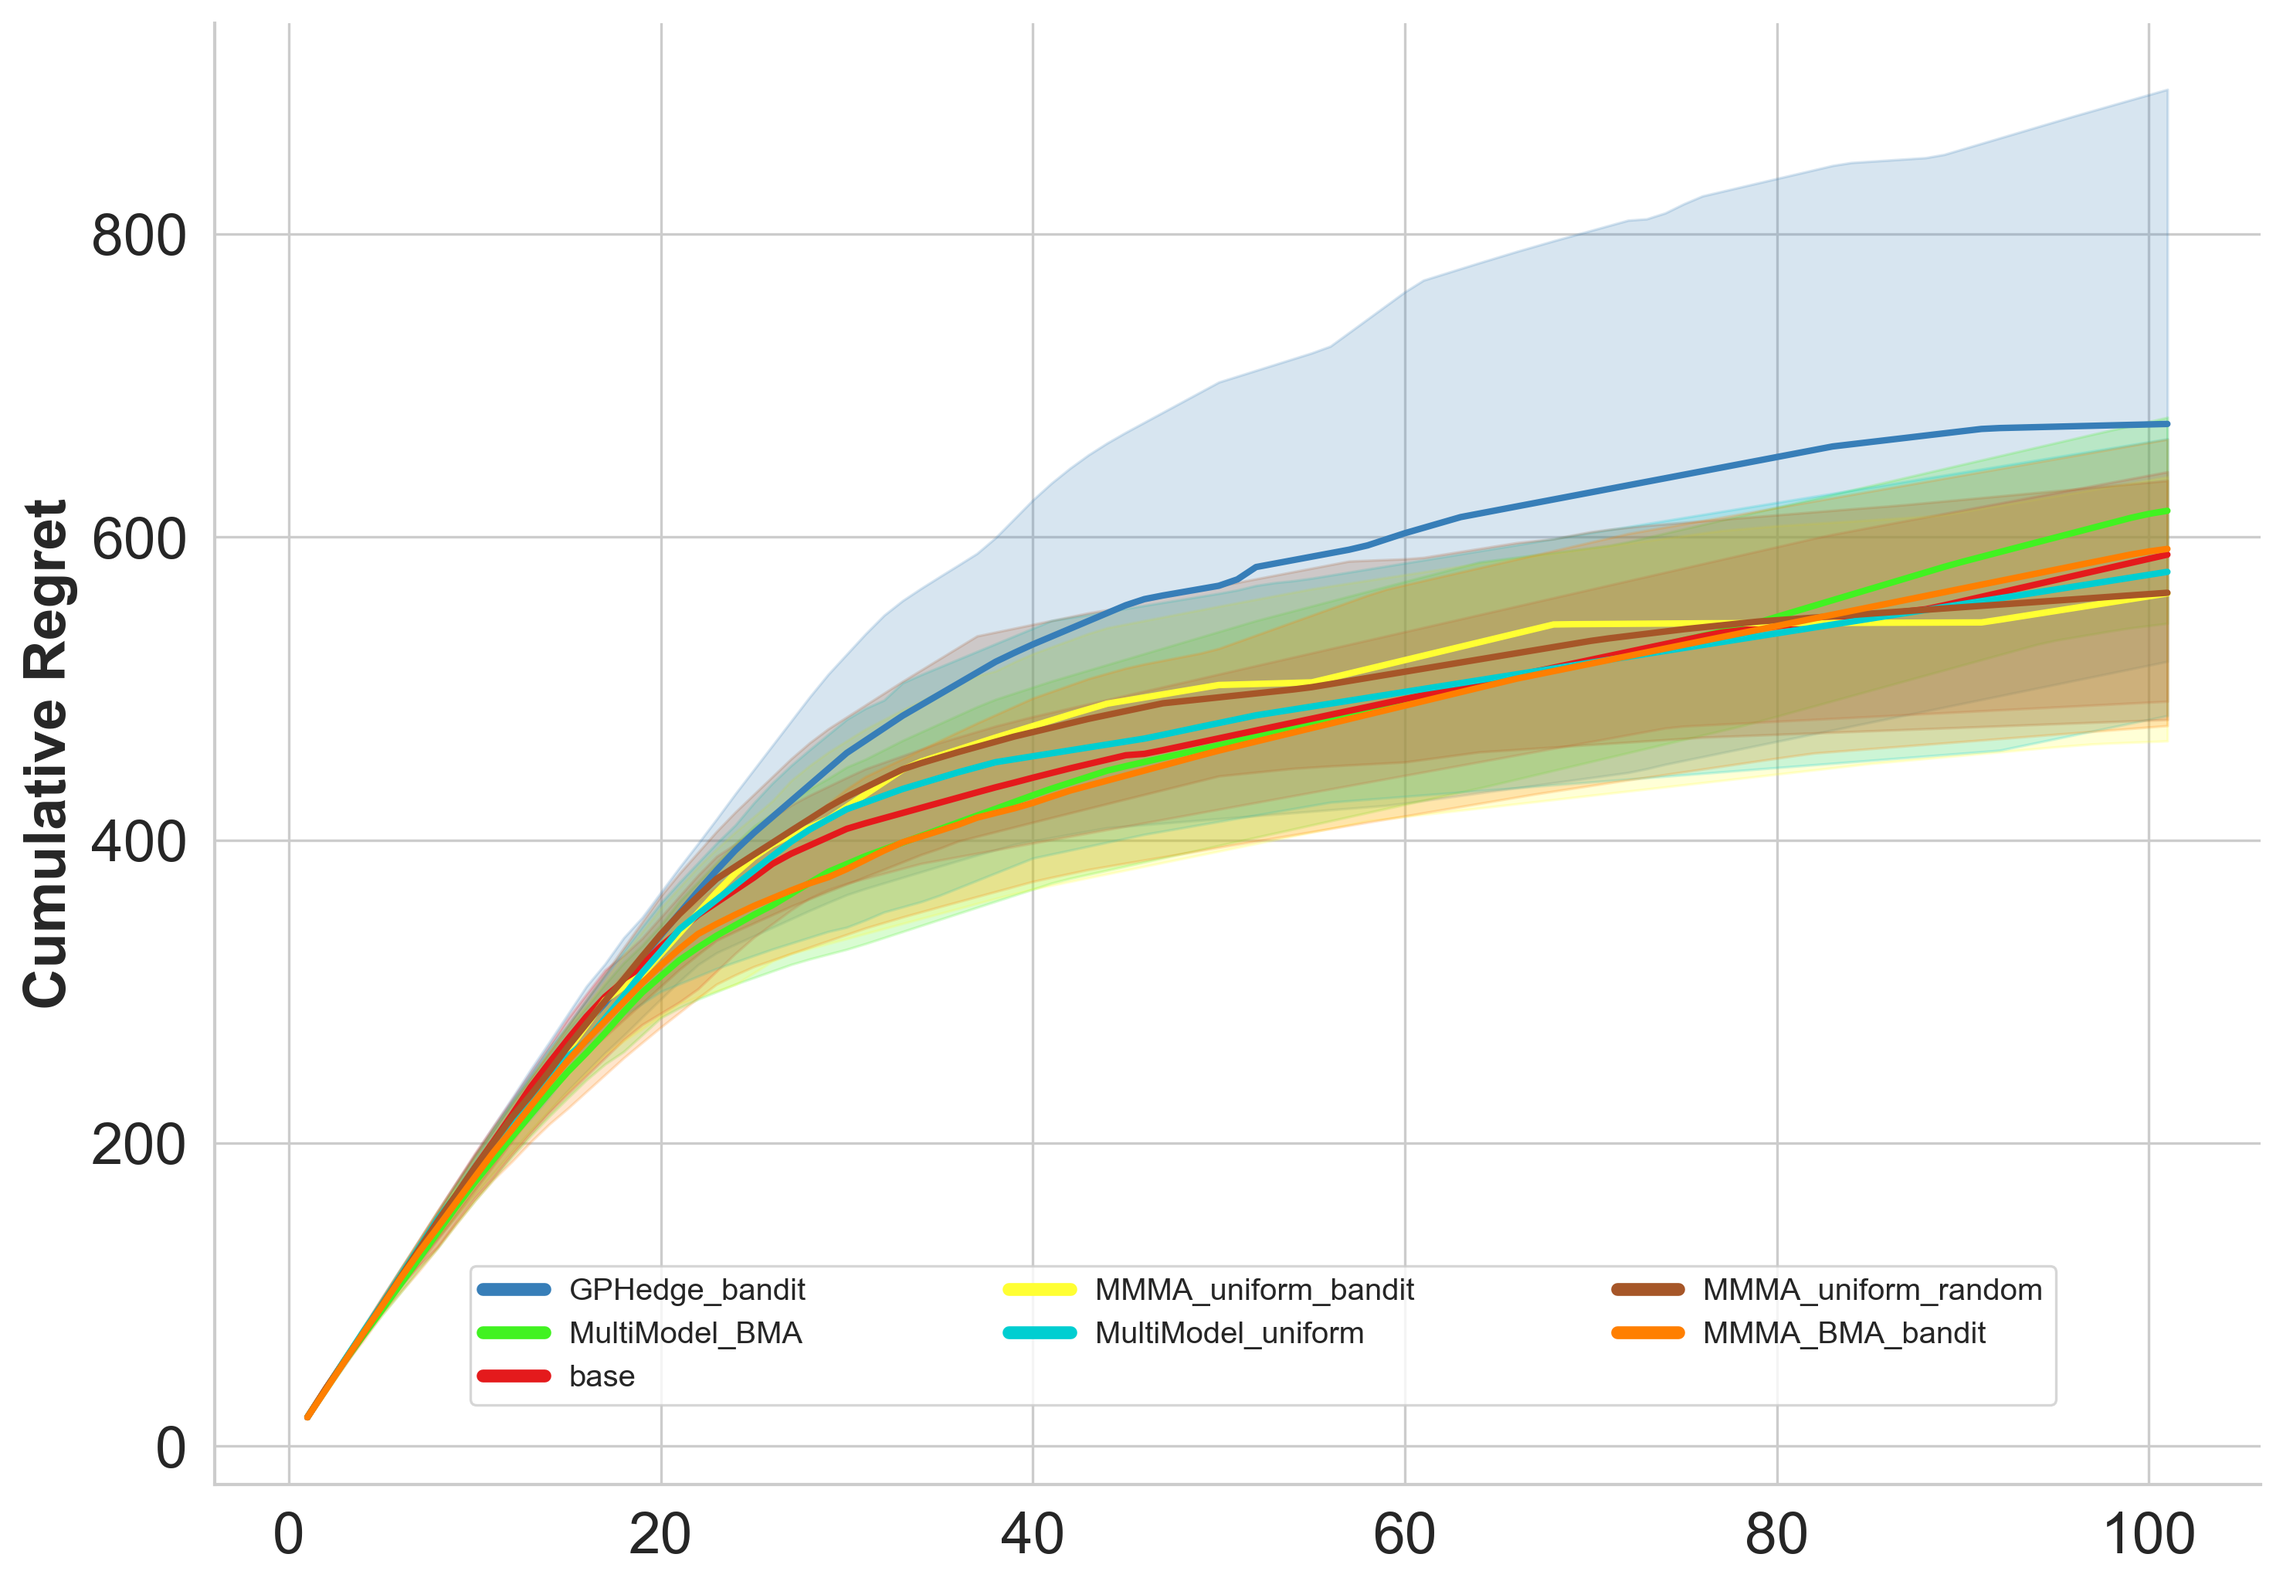
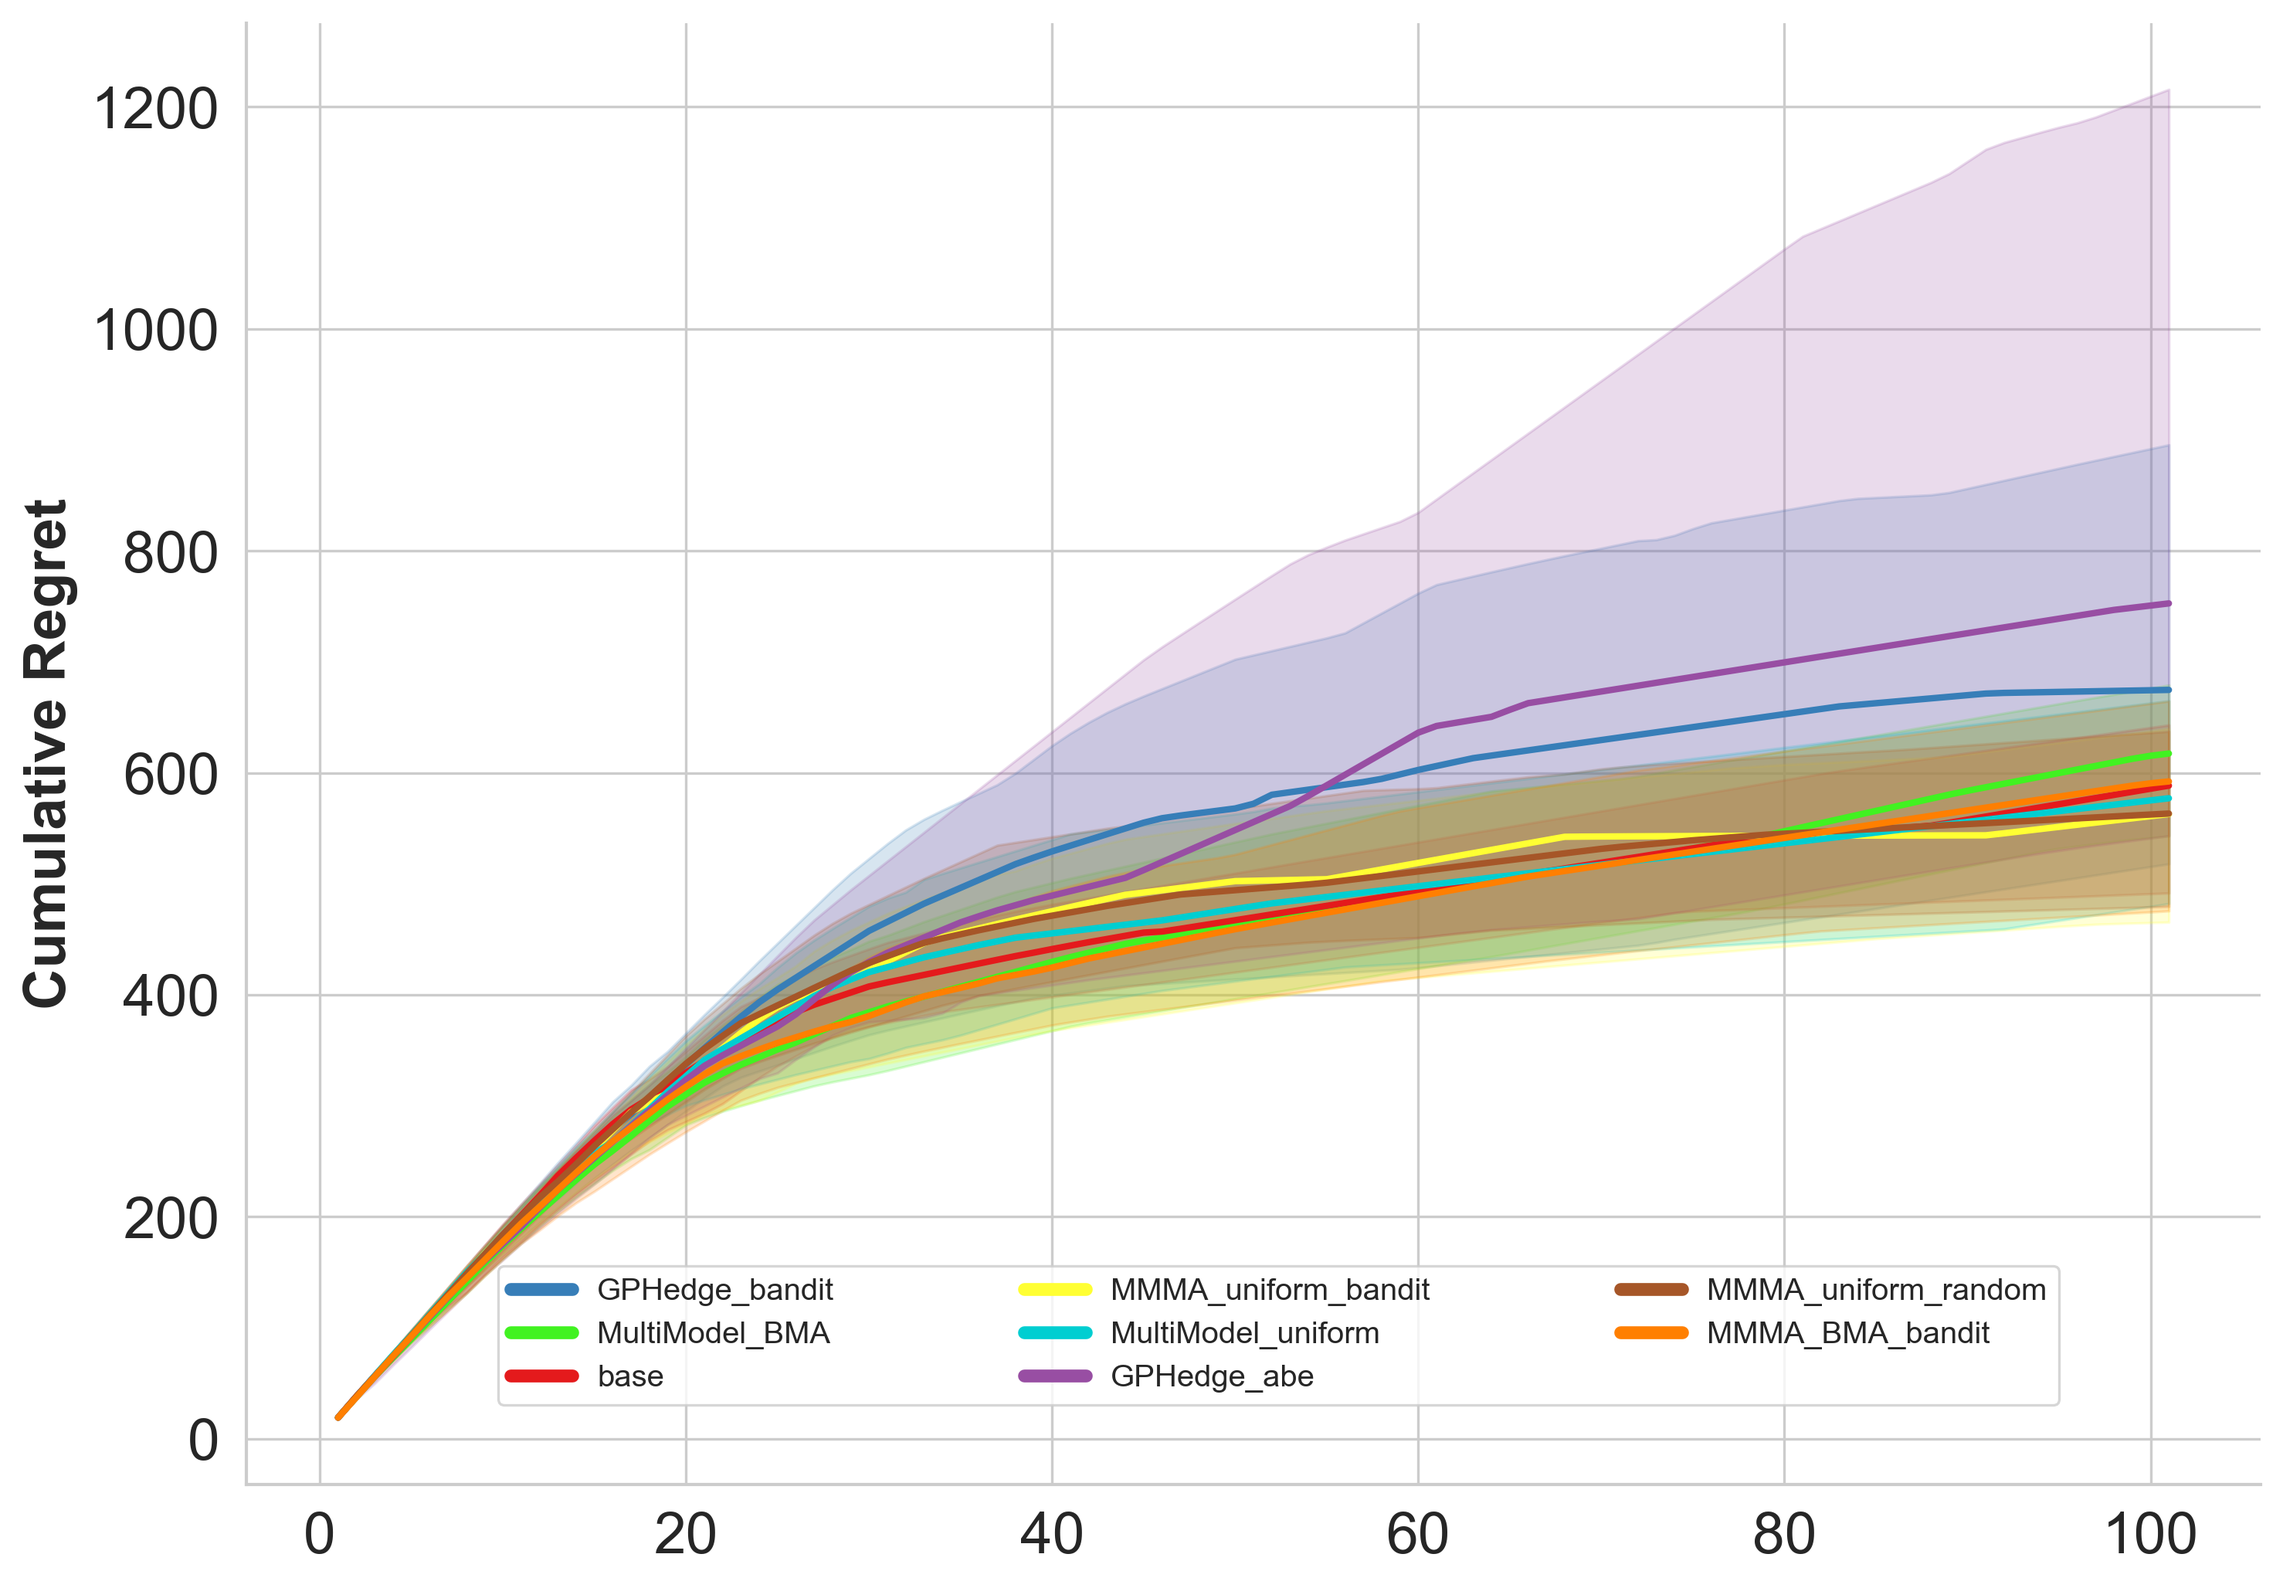
test

diff --git a/MMMA/test.py b/MMMA/test.py
@@ -297,10 +297,10 @@ if __name__ == "__main__":
 
     # Convert to numpy array and save
     all_results_np = np.array(all_results, dtype=object)
-    os.makedirs(f"./{args.function}", exist_ok=True)
+    os.makedirs(f"./Results/{args.function}_abe", exist_ok=True)
     if args.use_abe:
-        np.save(f"./Results/{args.function}/GPHedge_abe.npy", all_results_np)
+        np.save(f"./Results/{args.function}_abe/GPHedge_abe.npy", all_results_np)
     else:
-        np.save(f"./Results/{args.function}/GPHedge_{args.acq_weight}.npy", all_results_np)
+        np.save(f"./Results/{args.function}_abe/GPHedge_{args.acq_weight}.npy", all_results_np)
 
     # print(f"Results saved to GPHedge_{args.acq_weight}.npy")
